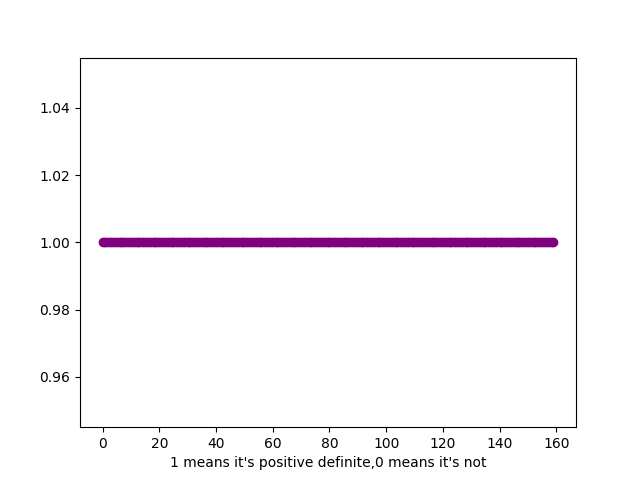
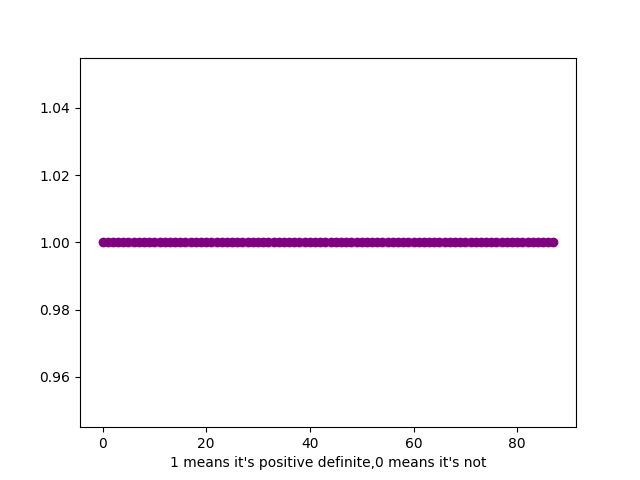
5.4

diff --git a/HW14/T4/bfgs.py b/HW14/T4/bfgs.py
@@ -204,14 +204,14 @@ if __name__ == "__main__":
     x0 = np.array([1.0, 1.0, 1.0])
 
     fl = open("dfp.log", mode="w")
-    dfp = DFP(x0.copy(), H0.copy(), 0.8, 0.5, 1e-5)
+    dfp = DFP(x0.copy(), H0.copy(), 0.8, 0.6, 1e-5)
     dfp.start()
     dfp.plot("dfp")
     dfp.plot_pos()
     fl.close()
 
     fl = open("bfgs.log", mode="w")
-    bfgs = BFGS(x0.copy(), H0.copy(), 0.8, 0.5, 1e-5)
+    bfgs = BFGS(x0.copy(), H0.copy(), 0.5, 0.5, 1e-5)
     bfgs.start()
     bfgs.plot("bfgs")
     bfgs.plot_pos()

diff --git a/HW14/T2/dfp.py b/HW14/T2/dfp.py
@@ -86,13 +86,13 @@ if __name__ == "__main__":
     x0_2 = np.array([1.5, 1.0])
 
     fl = open("dfp_1.log", mode="w")
-    dfp = DFP(x0_1, H0.copy(), 0.5, 0.5, 1e-5)
+    dfp = DFP(x0_1, H0.copy(), 0.5, 0.5, 1e-7)
     dfp.start()
     dfp.plot("dfp_1")
     fl.close()
 
     fl = open("dfp_2.log", mode="w")
-    dfp = DFP(x0_2, H0.copy(), 0.5, 0.5, 1e-5)
+    dfp = DFP(x0_2, H0.copy(), 0.5, 0.5, 1e-7)
     dfp.start()
     dfp.plot("dfp_2")
     fl.close()

diff --git a/practice/hw14_test.py b/practice/hw14_test.py
@@ -1,0 +1,20 @@
+import numpy as np
+
+np.random.seed(114514)
+# x = np.random.normal(0, 1, (5))
+g = np.random.normal(0, 1, (5))
+B = np.random.normal(0, 1, (5, 5))
+H = np.linalg.inv(B)
+
+x = -0.5 * H @ g
+
+B_1 = B+np.outer(g, g)/np.dot(g, x)-np.outer(B@x, B@x)/np.dot(x, B@x)
+
+rho = 1/np.dot(g, x)
+V = np.identity(5)-rho*np.outer(g, x)
+
+H_1 = V.T@H@V+rho*np.outer(x, x)
+
+print(B_1)
+print(H_1)
+print(B_1@H_1)

diff --git a/HW14/README.md b/HW14/README.md
@@ -1,0 +1,165 @@
+# 凸分析与优化方法 代码报告 作业14
+
+> 2100011025 王奕博
+
+## 第一题
+
+题目要求使用conjugate gradient方法解决extended Rosenbrock function问题，并分别采用 the Hestenes-Stiefel formula, the Polak-Ribiere formula, the Fletcher-Reeves formula来解决。
+
+将代码的最关键部分，即每次的迭代部分，展示如下：
+
+```python
+def cg_step(self, method):
+    print(self.x, file=fl)
+    t = 1.0
+    g = self.df(self.x)
+    dfdf = np.dot(g, g)
+    if dfdf < self.eta * self.eta:
+        return False
+    f = self.f(self.x)
+    d = None
+    if self.first_time:
+        d = -g
+    else:
+        beta = 1
+        if method == "Hestenes-Stiefel":
+            assert np.dot(self.d, g - self.g) != 0
+            beta = np.dot(g, g - self.g) / np.dot(self.d, g - self.g)
+        elif method == "Polak-Ribiere":
+            beta = np.dot(g, g - self.g) / np.dot(self.g, self.g)
+        elif method == "Fletcher-Reeves":
+            beta = np.dot(g, g) / np.dot(self.g, self.g)
+        d = beta * self.d - g
+    while self.f(self.x + t * d) > f + self.alpha * t * np.dot(g, d):
+        t = self.beta * t
+
+    self.x += t * d
+    self.d = d
+    self.g = g
+
+    self.f_his.append(f)
+    self.time_his.append(time.time() - self.start_time)
+    self.first_time = 0
+    return True
+```
+
+所选取的超参数为：
+```
+alpha=0.8
+beta=0.5
+```
+
+将下降结果画图，三种方法分别为：
+
+### Hestenes-Stiefel：
+![图片](./T1/Hestenes-Stiefel.png)
+
+### Polak-Ribiere
+![图片](./T1/Polak-Ribiere.png)
+
+### Fletcher-Reeves
+![图片](./T1/Fletcher-Reeves.png)
+
+
+### 第二题
+
+作业要求用dfp算法优化目标函数，并分别从两个初始点[0,0]和[1.5,1]开始迭代。
+
+将代码的最关键部分，即每次的迭代部分，展示如下：
+```python
+def dfp_step(self):
+    pass
+    print(self.x, file=fl)
+    alpha = 1.0
+    g = self.df(self.x)
+    dfdf = np.dot(g, g)
+    if dfdf < self.eta * self.eta:
+        return False
+    f = self.f(self.x)
+    d = -self.H @ g
+
+    while self.f(self.x + alpha * d) > f + self.alpha * alpha * np.dot(g, d):
+        alpha = self.beta * alpha
+    dx = alpha * d
+    self.x += dx
+
+    dg = self.df(self.x) - g
+
+    assert np.dot(dx, dg) != 0
+    assert np.dot(dg, self.H@dg) != 0
+ 
+    self.H += np.outer(dx, dx)/np.dot(dx, dg)-np.outer(self.H@dg, self.H@dg)/np.dot(dg, self.H@dg)
+
+    self.d = d
+    self.g = g
+
+    self.f_his.append(f)
+    self.time_his.append(time.time() - self.start_time)
+
+    return True
+```
+
+从[0,0]点迭代的结果如下：
+![图片](./T2/dfp_1.png)
+
+收敛的局部最小点为：
+[-1,0]
+
+从[1.5,1.0]点迭代的结果如下：
+![图片](./T2/dfp_1.png)
+
+收敛的局部最小点为：
+[1,2]
+
+## 第四题
+
+题目要求分别用dfp与bfgs方法优化目标函数，并比较正定性。
+
+dfp方法上面已经解释过，就不再展示。bfgs的迭代关键步骤如下：
+```python
+def bfgs_step(self):
+    alpha = 1.0
+    g = self.df(self.x)
+    dfdf = np.dot(g, g)
+    if dfdf < self.eta * self.eta:
+        return False
+    f = self.f(self.x)
+    d = -self.H @ g
+
+    while self.f(self.x + alpha * d) > f + self.alpha * alpha * np.dot(g, d):
+        alpha = self.beta * alpha
+    dx = alpha * d
+    self.x += dx
+
+    dg = self.df(self.x) - g
+    Hdg = self.H @ dg
+    dgdx = np.dot(dg, dx)
+    Hdgdx = np.outer(Hdg, dx)
+    assert dgdx != 0
+
+    self.H += (1 + np.dot(dg, Hdg) / dgdx) / dgdx * np.outer(dx, dx) - (Hdgdx + Hdgdx.transpose()) / dgdx
+
+    self.d = d
+    self.g = g
+
+    self.f_his.append(f)
+    self.time_his.append(time.time() - self.start_time)
+
+    return True
+```
+
+用dfp法下降的图像为：
+![图片](./T4/dfp.png)
+
+用bfgs法下降的图像为：
+![图片](./T4/bfgs.png)
+
+将正定性画在图中，0代表不正定，1代表正定，dfp的正定图像为：
+
+![图片](./T4/dfp_pos_def.png)
+
+bfgs的正定图像为：
+
+![图片](./T4/bfgs_pos_def.png)
+
+可以看出，在这个初始值下，两种方法都是始终正定的。
